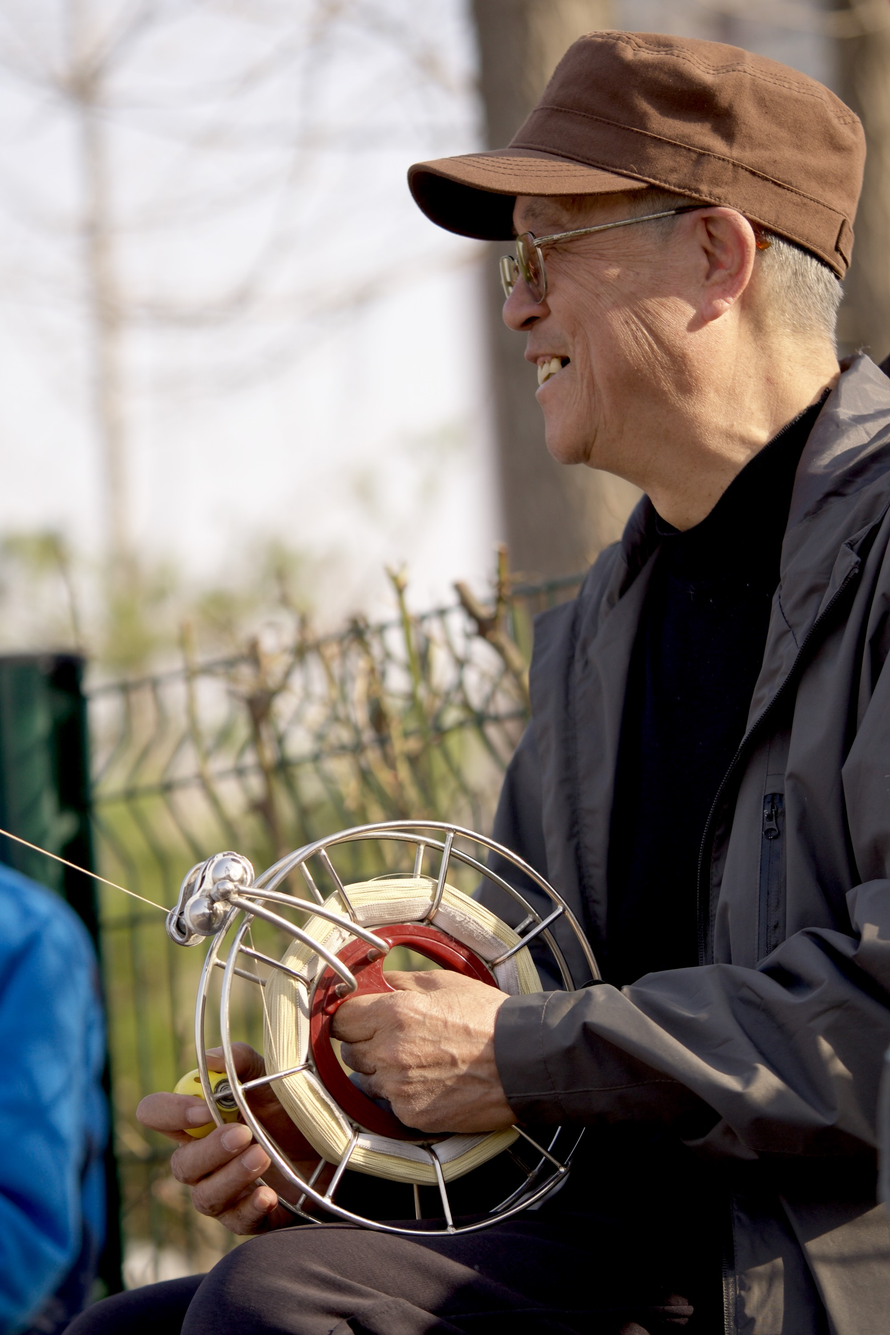
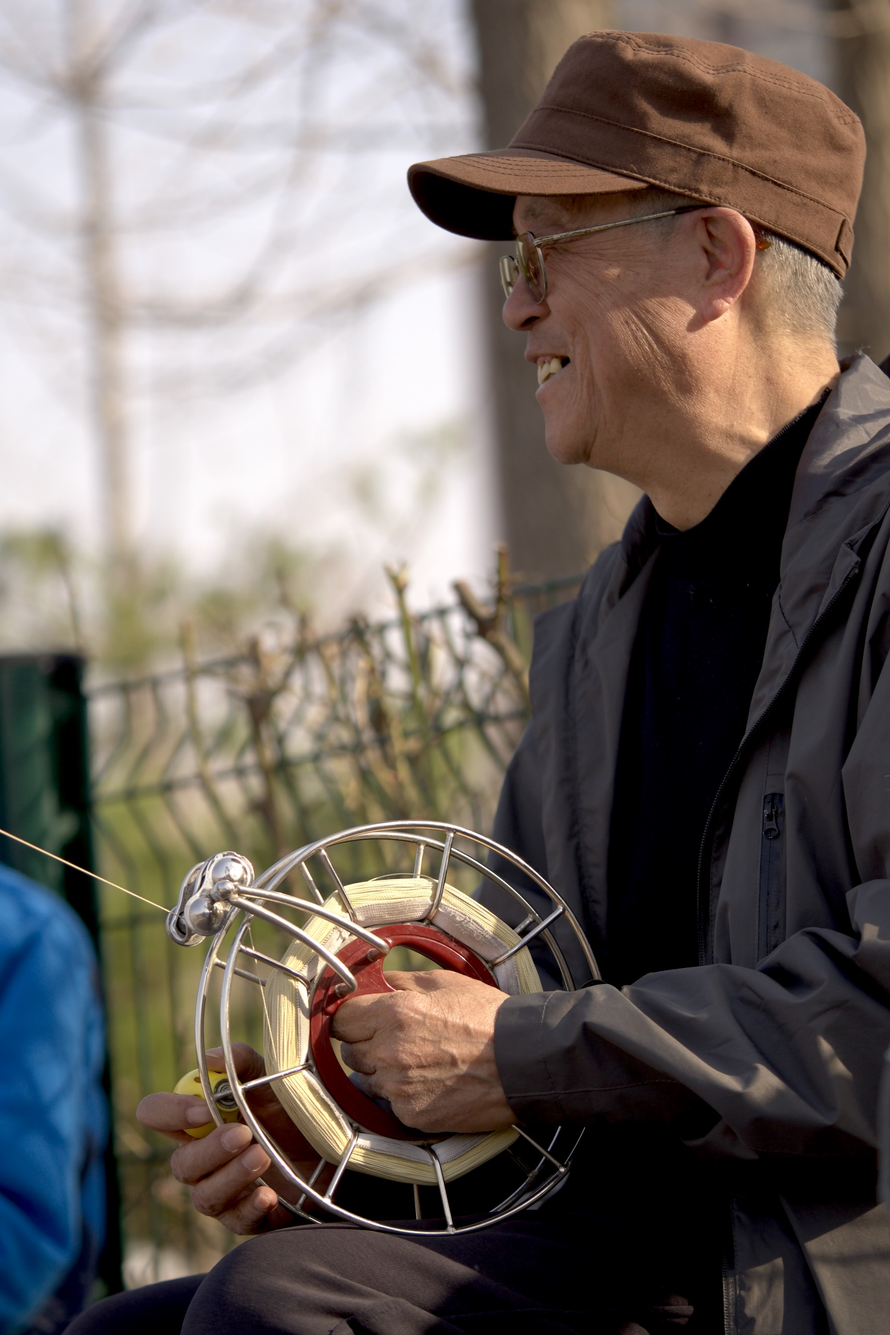
Update portrait demo with revised RGB gain-map export

diff --git a/docs/index.html b/docs/index.html
@@ -15,7 +15,7 @@
 <h1>A good SDR image.<br>Room for more in HDR.</h1>
 <p>Move the divider or switch between renditions. Both come from the same Dark Melon export: the SDR base is unchanged, and the HDR version adds its embedded gain map.</p>
 
-<div class="samples" role="group" aria-label="Sample photographs"><button type="button" data-sample="DSC00037" aria-pressed="true" aria-label="Show sample DSC00037"><img src="samples/DSC00037-thumb.jpg" alt=""><span>DSC00037</span></button><button type="button" data-sample="DSC07576" aria-pressed="false" aria-label="Show sample DSC07576"><img src="samples/DSC07576-thumb.jpg" alt=""><span>DSC07576</span></button><button type="button" data-sample="DSC07530" aria-pressed="false" aria-label="Show sample DSC07530"><img src="samples/DSC07530-thumb.jpg" alt=""><span>DSC07530</span></button><button type="button" data-sample="DSC01058" aria-pressed="false" aria-label="Show sample DSC01058"><img src="samples/DSC01058-thumb.jpg" alt=""><span>DSC01058</span></button><button type="button" data-sample="DSC07851" aria-pressed="false" aria-label="Show sample DSC07851"><img src="samples/DSC07851-thumb.jpg" alt=""><span>DSC07851</span></button></div>
+<div class="samples" role="group" aria-label="Sample photographs"><button type="button" data-sample="DSC00037" aria-pressed="true" aria-label="Show sample DSC00037"><img src="samples/DSC00037-thumb.jpg" alt=""><span>DSC00037</span></button><button type="button" data-sample="DSC07576" aria-pressed="false" aria-label="Show sample DSC07576"><img src="samples/DSC07576-thumb.jpg" alt=""><span>DSC07576</span></button><button type="button" data-sample="DSC07530" aria-pressed="false" aria-label="Show sample DSC07530"><img src="samples/DSC07530-thumb.jpg" alt=""><span>DSC07530</span></button><button type="button" data-sample="DSC01058" aria-pressed="false" aria-label="Show sample DSC01058"><img src="samples/DSC01058-thumb.jpg" alt=""><span>DSC01058</span></button><button type="button" data-sample="DSC07851" aria-pressed="false" aria-label="Show sample DSC07851"><img src="samples/DSC07851-thumb.jpg?v=rgb-2" alt=""><span>DSC07851</span></button></div>
 <div class="toolbar"><div class="modes" role="group" aria-label="Preview mode"><button type="button" data-mode="compare" aria-pressed="true">Compare</button><button type="button" data-mode="sdr" aria-pressed="false">SDR</button><button type="button" data-mode="hdr" aria-pressed="false">HDR</button></div><span class="status" id="status" role="status">Loading both images…</span></div>
 <div class="stage" id="stage" data-mode="compare">
 <img id="hdr" src="samples/DSC00037.jpg" alt="HDR rendition of a figurine photographed against sunlit green leaves" decoding="async">
@@ -41,7 +41,8 @@ capability.addEventListener('change',updateStatus);
 let request=0;
 async function selectSample(name){
  const current=++request;ready=false;status.textContent='Loading '+name+'…';stage.setAttribute('aria-busy','true');
- const hdr=new Image(),sdr=new Image();hdr.src='samples/'+name+'.jpg';sdr.src='samples/'+name+'-sdr.jpg';
+ const version=name==='DSC07851'?'?v=rgb-2':'';
+ const hdr=new Image(),sdr=new Image();hdr.src='samples/'+name+'.jpg'+version;sdr.src='samples/'+name+'-sdr.jpg'+version;
  try{
   await Promise.all([hdr.decode(),sdr.decode()]);if(current!==request)return;
   const shownHDR=document.querySelector('#hdr'),shownSDR=document.querySelector('#sdr');
